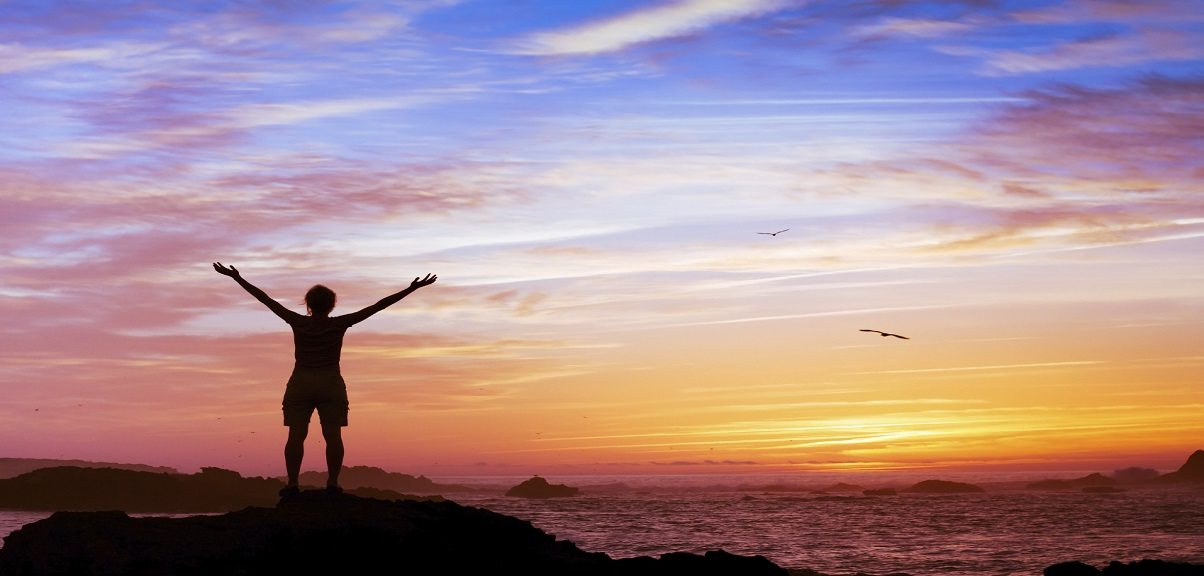
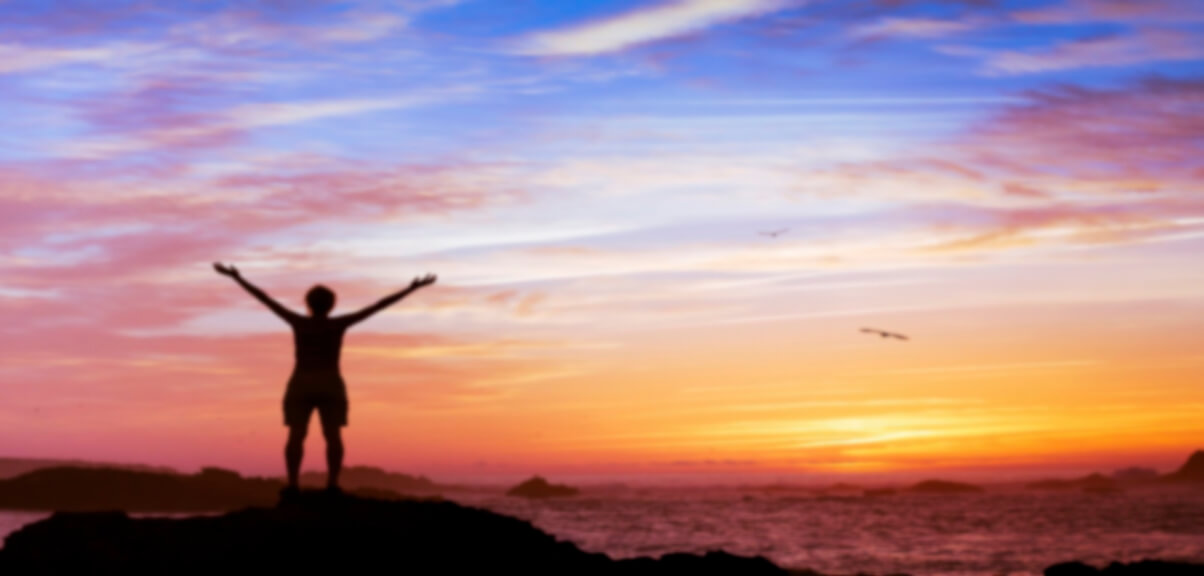
bg and minor fixes

diff --git a/css/lift.css b/css/lift.css
@@ -3827,8 +3827,13 @@ font-weight: 900;;
   }
 }
 .lift-page .speakers {
-  padding: 60px 0 0 0;
+  padding: 120px 0 0 0;
   position: relative;
+}
+@media (max-width: 767px) {
+  .lift-page .speakers {
+    padding: 55px 0 0 0;
+  }
 }
 .lift-page .speakers .speaker-block {
   justify-content: center;
@@ -3837,11 +3842,6 @@ font-weight: 900;;
   position: absolute;
   right: -80px;
   top: -130px;
-}
-.lift-page .speakers .s-icon .si-left {
-  position: absolute;
-  left: -115px;
-  top: 150px;
 }
 .lift-page .speakers .for-title {
   text-align: center;
@@ -3929,10 +3929,10 @@ font-weight: 900;;
   font-weight: 600;
 }
 @media (min-width: 768px) and (max-width: 1199px) {
-  .lift-page body .speakers {
+  .lift-page .speakers {
     padding: 50px 0 0;
   }
-  .lift-page body .speakers .s-block .s-img img {
+  .lift-page .speakers .s-block .s-img img {
     max-width: 100%;
     margin: 0;
   }
@@ -3944,12 +3944,12 @@ font-weight: 900;;
   }
 }
 @media (min-width: 991px) and (max-width: 1199px) {
-  .lift-page body .speakers .s-icons .si-left {
+  .lift-page body .speakers .s-icons {
     left: -211px;
   }
 }
 @media (max-width: 767px) {
-  .lift-page body .speakers {
+  .lift-page .speakers {
     padding: 55px 0 0 0;
   }
   .lift-page body .speakers .s-icon {

diff --git a/index.html b/index.html
@@ -161,17 +161,13 @@
 	<div class="lift-page" id="section-authors">
 		<section class="speakers">
 			<div class="s-icons d-none d-lg-block">
-				<div class="si-left">
-					<img src="./index_files/si-left.png" alt="">
-				</div>
 			</div>
 			<div class="container">
 				<div class="s-icon">
-					<img src="./index_files/comm-pc.png" alt="">
 				</div>
 				<div class="for-title">
 					<div class="title">
-						Автор<br class="d-xl-none"> мастер-класса <span class="d-none d-lg-inline">😃</span>
+						Автор мастер-класса <span class="d-none d-lg-inline">😃</span>
 					</div>
 					<p></p>
 				</div>

diff --git a/css/style.css b/css/style.css
@@ -169,6 +169,7 @@ header::before {
   z-index: 2;
   background: url(../img/grad.png) center no-repeat;
   background-size: cover;
+  opacity: 0.2;
 }
 
 header .container {
@@ -580,6 +581,7 @@ button.g_button.disabled:hover {
   z-index: 2;
   background: url(../img/grad.png) center no-repeat;
   background-size: cover;
+  opacity: 0.2;
 }
 
 #maps .section_title {
@@ -1082,6 +1084,7 @@ header .videoWrapper {
 }
 .block-book .book-cover {
   display: flex;
+  margin-top: 15px;
 }
 .block-book .min-title {
   margin: 10px 0 20px 20px;

diff --git a/css/responsive.css b/css/responsive.css
@@ -270,9 +270,9 @@
     margin-right: 0;
   }
   header .header_text h1 {
-    font-size: 45px;
-    line-height: 1.3;
-    margin-bottom: 0;
+    font-size: 35px;
+    line-height: 1.1;
+    margin-bottom: 15px;
   }
 
   .header_form {
